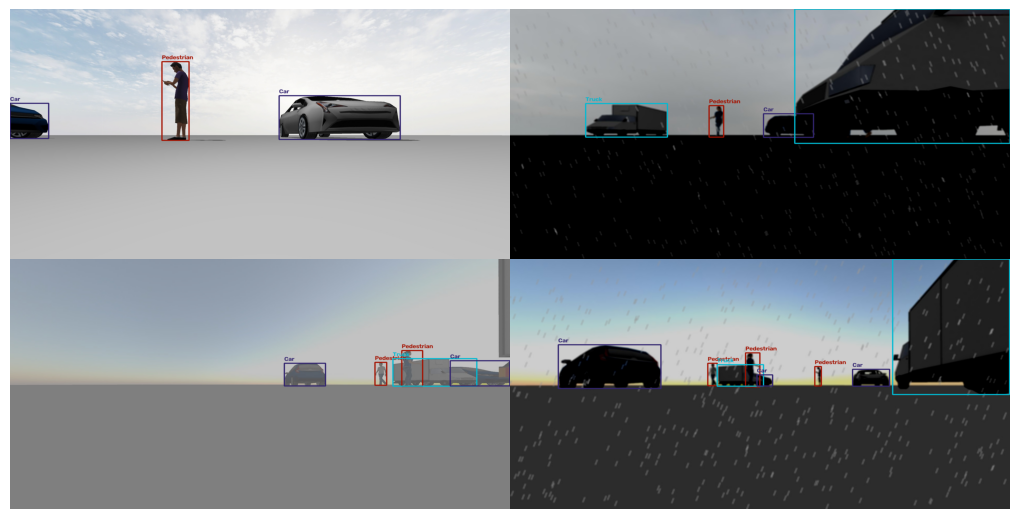
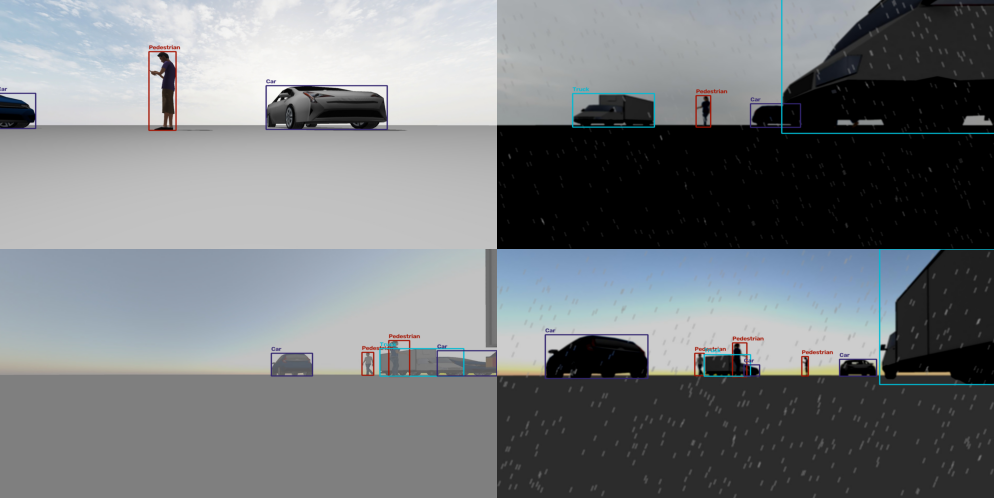
Update

Changed region(s): [[0.0, 0.0, 1.0, 1.0], [0.8109, 0.8735, 0.8421, 0.9036], [0.6237, 0.8735, 0.6549, 0.9036]]

diff --git a/projects/object-detection.html b/projects/object-detection.html
@@ -43,9 +43,9 @@
   <div class="container">
     <h2>Overview</h2>
     <p>
-      Train YOLOv7-Tiny for mobile robot in traffic scenarios under varying environmental conditions.
+      Train <a href="https://arxiv.org/abs/[phone redacted]" target="_blank" rel="noopener">YOLOv7-Tiny</a> for mobile robot in traffic scenarios under varying environmental conditions.
       The model is trained on the KITTI dataset, which is a widely used benchmark dataset for autonomous driving and object detection tasks.
-      The evaluation of the model is performed on a custom dataset generated from <a href="projects/ros2-data-generation.html">this project</a>, 
+      The evaluation of the model is performed on a custom dataset generated from <a href="./ros2-data-generation.html">this project</a>, 
       which simulates the specific environment and conditions encountered by mobile robots, including varying lighting and weather conditions.
       The evaluation focused on assessing the model's performance in terms of accuracy, inference speed, and robustness under varying environmental conditions.
       YOLOv7-Tiny will be benchmarked against DETR and Vision LSTM, which developed by other students in the same course project.
@@ -58,8 +58,28 @@
   <div class="container">
     <h2>Images</h2>
     <div class="gallery-grid">
-      <div class="gallery-slot">Add: robot platform / setup photo</div>
-      <div class="gallery-slot">Add: detection output examples</div>
+      <div class="gallery-slot">
+        <figure>
+          <img src="../assets/images/projects/object-detection/yolov7.png"
+               alt="YOLOv7-Tiny model architecture"
+               onclick="this.classList.toggle('zoomed')">
+          <figcaption>
+            Source: 
+            <a href="https://github.com/open-mmlab/mmyolo/tree/main/configs/yolov7" target="_blank" rel="noopener">open-mmlab YOLOv7</a>
+          </figcaption>
+        </figure>
+      </div>
+      <div class="gallery-slot">
+        <img src="../assets/images/projects/object-detection/kitti_dataset.png"
+             alt="KITTI dataset examples"
+             onclick="this.classList.toggle('zoomed')">
+      </div>
+      <div class="gallery-slot">
+        <img src="../assets/images/projects/object-detection/custom_dataset.png"
+             alt="Custom dataset examples"
+             onclick="this.classList.toggle('zoomed')">
+      </div>
+    </div>
     </div>
   </div>
 </section>

diff --git a/projects.html b/projects.html
@@ -58,18 +58,6 @@
       </div>
 
       <div class="card">
-        <div class="card-thumb"><a href="projects/object-detection.html">Image placeholder</a></div>
-        <div class="card-body">
-          <h3>Object Detection for Mobile Robots</h3>
-          <p>Train YOLOv7-Tiny for mobile robot in traffic scenarios under varying environmental conditions.</p>
-          <div class="card-links">
-            <a href="projects/object-detection.html">Details →</a>
-            <a href="https://github.com/alfredowh/object-detection" target="_blank" rel="noopener">GitHub</a>
-          </div>
-        </div>
-      </div>
-
-      <div class="card">
         <div class="card-thumb"><a href="projects/ros2-data-generation.html"><img src="assets/images/projects/ros2-data-generation/gazebo_bbox.png" alt="Gazebo scene with object detection bounding boxes"></a></div>
         <div class="card-body">
           <h3>Generation of Simulation Datasets for Object Detection Evaluation</h3>
@@ -80,6 +68,18 @@
           <div class="card-links">
             <a href="projects/ros2-data-generation.html">Details →</a>
             <a href="https://github.com/alfredowh/ros2-object-detection" target="_blank" rel="noopener">GitHub</a>
+          </div>
+        </div>
+      </div>
+
+      <div class="card">
+        <div class="card-thumb"><a href="projects/object-detection.html"><img src="assets/images/projects/object-detection/yolov7.png" alt="YOLOv7 model architecture"></a></div>
+        <div class="card-body">
+          <h3>Object Detection for Mobile Robots</h3>
+          <p>Train <a href="https://arxiv.org/abs/[phone redacted]" target="_blank" rel="noopener">YOLOv7-Tiny</a> for mobile robot in traffic scenarios under varying environmental conditions.</p>
+          <div class="card-links">
+            <a href="projects/object-detection.html">Details →</a>
+            <a href="https://github.com/alfredowh/object-detection" target="_blank" rel="noopener">GitHub</a>
           </div>
         </div>
       </div>

diff --git a/index.html b/index.html
@@ -101,17 +101,16 @@
       </div>
 
       <div class="card">
-        <div class="card-thumb"><a href="projects/object-detection.html">Image placeholder</a></div>
+        <div class="card-thumb"><a href="projects/object-detection.html"><img src="assets/images/projects/object-detection/yolov7.png" alt="YOLOv7 model architecture"></a></div>
         <div class="card-body">
           <h3>Object Detection for Mobile Robots</h3>
-          <p>Train YOLOv7-Tiny for mobile robot in traffic scenarios under varying environmental conditions.</p>
+          <p>Train <a href="https://arxiv.org/abs/[phone redacted]" target="_blank" rel="noopener">YOLOv7-Tiny</a> for mobile robot in traffic scenarios under varying environmental conditions.</p>
           <div class="card-links">
             <a href="projects/object-detection.html">Details →</a>
             <a href="https://github.com/alfredowh/object-detection" target="_blank" rel="noopener">GitHub</a>
           </div>
         </div>
       </div>
-
       
       <div class="card">
         <div class="card-thumb"><a href="projects/beer-classification.html"><img src="assets/images/projects/beer-classification/beer.png" alt="Beer classifications"></a></div>